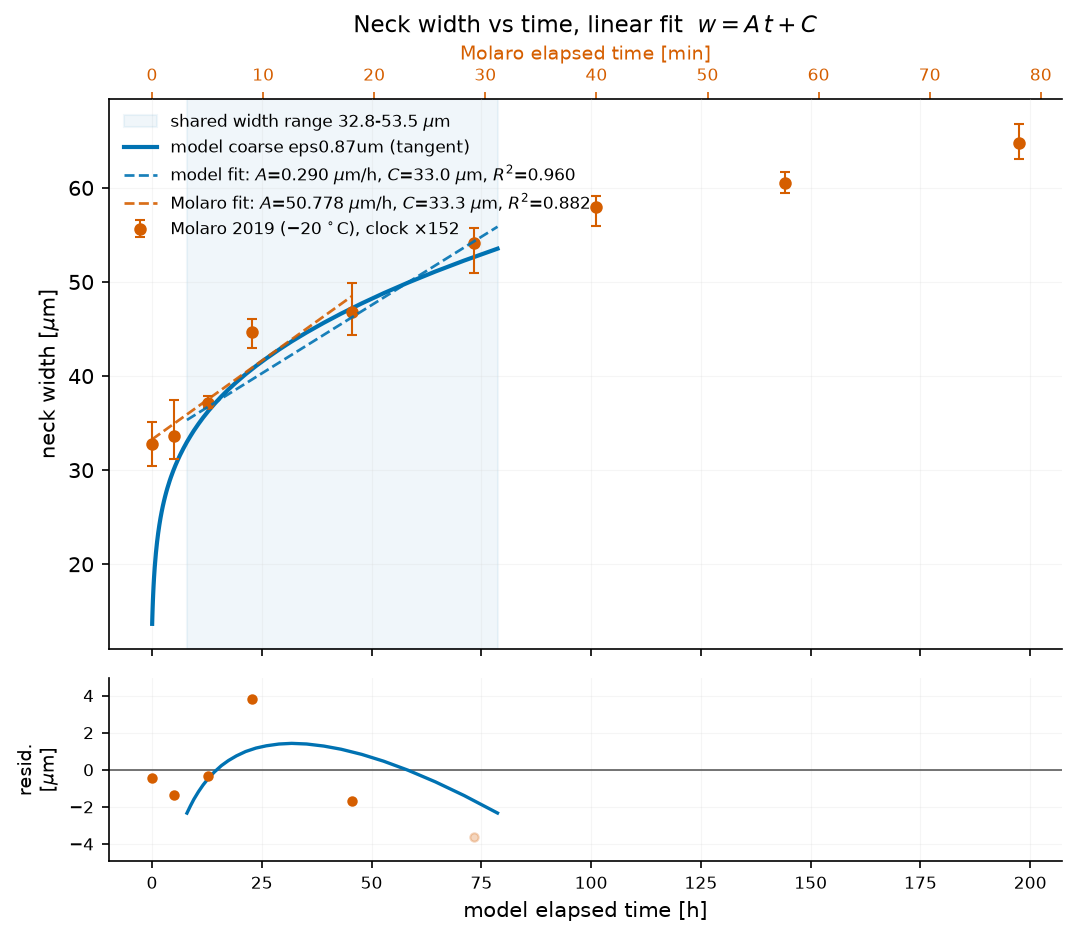
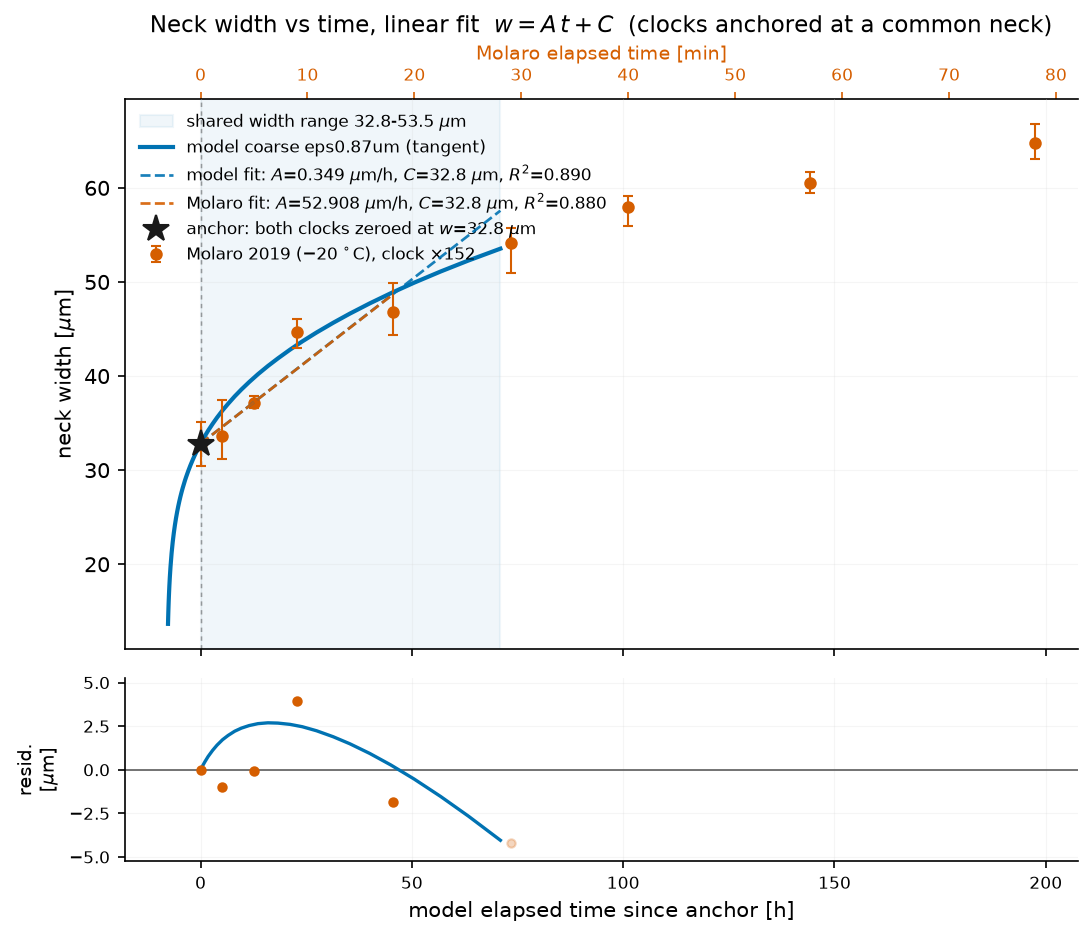
Anchor both clocks at a common starting neck, and pin the linear intercept
The experiment opens with a 32.81 um neck already formed; the model opens at
tangent contact and takes 7.74 h to reach it, so on raw clocks the two series
were being compared across different stretches of the same trajectory. Both are
now re-zeroed at a common neck WIDTH (Molaro's own Fig. 12 convention), which
is also the principled way to spend the third parameter of A*(t-t0)+C: it fixes
the origin from the data instead of asking a degenerate fit to invent one.

With the origin fixed the intercept is known, so the pinned one-parameter form
w = A*t' + w_anchor is what gets quoted and drawn -- both series share the pin
and the width window, so their two A values are the comparison with nothing
else moving. A = 0.349 +- 0.027 um/h (model) vs 52.91 +- 12.57 (Molaro).

This also settles the time-scale factor. The pinned rate ratio is 151.5x
against a model-free elapsed-time ratio of 151.8x -- agreement to 0.2%, by two
independent routes. The free-slope ratio's 175x was an artifact: a free
intercept lets the data's truncated 32.8-46.8 um window tilt its chord.

Pinning costs R2 (0.89 vs 0.96) because the concavity can no longer hide in a
free offset. That is reported, not smoothed over; the residual panel now plots
against the same pinned lines the top panel draws, so the two cannot disagree
about what "the fit" is. --no-anchor restores the raw-clock comparison.

diff --git a/projects/enceladus_DSM/studies/sinter_exponent/analysis/plot_neck_linear.py b/projects/enceladus_DSM/studies/sinter_exponent/analysis/plot_neck_linear.py
@@ -31,7 +31,37 @@ and both readings are printed. For these runs t0 is a large negative number
 (the line, extended backwards, has the neck vanishing hundreds of hours before
 the run began) which is a fact about the line, not about the ice: it is what
 "the curve is concave, so a chord under-slopes the early growth" looks like
-when you extrapolate it. Quote C, not t0.
+when you extrapolate it. Never quote the free t0.
+
+ANCHORING -- WHERE THE THIRD PARAMETER SHOULD ACTUALLY COME FROM
+----------------------------------------------------------------
+The experiment opens with a 32.8 um neck already formed; the model opens at
+tangent contact and needs 7.7 h to reach that width. On raw clocks the two
+series therefore describe different stretches of the same trajectory, and every
+offset-sensitive quantity inherits the mismatch. Both clocks are re-zeroed at a
+common neck WIDTH (default: the experiment's first measurement) -- Molaro et
+al.'s own Fig. 12 convention.
+
+That is the principled way to spend the third parameter: the origin is fixed
+FROM THE DATA rather than invented by the fitter. With it fixed, the intercept
+is no longer an unknown, so the pinned form
+
+    w = A*t' + w_anchor          t' = t - t_anchor, ONE free parameter
+
+is what should be quoted. Both series get the same pin and the same width
+window, so their two A values are the comparison with nothing else moving.
+Pinning costs a little R^2 (0.89 vs 0.96) because the concavity can no longer
+hide in a free offset -- that is the honest number, not a worse fit.
+
+It also fixes the time-scale factor: the pinned rate ratio is 151.5x against a
+model-free elapsed-time ratio of 151.8x, while the FREE slopes read 175x purely
+because a free intercept lets the data's truncated window tilt its chord.
+
+Anchoring is safe here in a way it is NOT for the power-law fits in
+fit_neck_growth.py: a line has no ln(t), so shifting the origin leaves it
+well-defined, whereas a power law fitted on a tangent-start run needs its
+physical t = 0 for the t0 = 0 form to mean anything. Use --no-anchor to
+compare on raw clocks.
 
 THE TIME-SCALE FACTOR
 ---------------------
@@ -89,6 +119,49 @@ def linfit(t, w):
     }
 
 
+def linfit_pinned(t, w, w0):
+    """w = A*(t) + w0 with the intercept PINNED to the anchor width.
+
+    Once both clocks are re-zeroed at a common neck width, the intercept is no
+    longer something to estimate -- it is the anchor, known exactly and shared
+    by both series. Pinning it spends the extra degree of freedom on the one
+    quantity the comparison is about, the rate, and makes the two series'
+    A directly comparable instead of each carrying its own free offset.
+
+    Closed form: A = sum(t*(w - w0)) / sum(t^2), the OLS slope through a fixed
+    point. R^2 is reported against the mean of w, as for the free fit, so the
+    two are comparable -- which also means it can go negative if the pin is bad.
+    """
+    if len(t) < 2:
+        return None
+    stt = np.sum(t * t)
+    if stt <= 0:
+        return None
+    A = np.sum(t * (w - w0)) / stt
+    resid = w - (A * t + w0)
+    n = len(t)
+    se = np.sqrt(np.sum(resid ** 2) / (n - 1) / stt) if n > 1 else np.nan
+    ss = np.sum((w - w.mean()) ** 2)
+    return {
+        "A": A, "A_ci95": 1.96 * se, "C": w0, "t0": 0.0,
+        "r2": 1.0 - np.sum(resid ** 2) / ss if ss > 0 else np.nan,
+        "max_resid": np.abs(resid).max(), "rms_resid": np.sqrt(np.mean(resid ** 2)),
+        "n": n, "t_lo": t[0], "t_hi": t[-1], "w_lo": w[0], "w_hi": w[-1],
+    }
+
+
+def anchor_time(t, w, w_a):
+    """Time at which a monotone-ish width series first reaches w_a.
+
+    Interpolated in w, not in t, so it does not care how unevenly the solver
+    or the experimenter sampled. Returns None if the series never spans w_a --
+    an extrapolated anchor would silently invent an offset.
+    """
+    if w_a < w.min() or w_a > w.max():
+        return None
+    return float(np.interp(w_a, w, t))
+
+
 def load_model(run_dir):
     d = np.loadtxt(Path(run_dir) / "neck_width.csv", delimiter=",", skiprows=1, ndmin=2)
     return d[:, 0], d[:, 1] * 1e6                      # s, um WIDTH
@@ -107,10 +180,38 @@ def main():
                     default=Path("inputs/validation/molaro2019_fig11_T-20.csv"))
     ap.add_argument("--prefix", default="meshpair_linear")
     ap.add_argument("--label", default="model coarse eps0.87um (tangent)")
+    ap.add_argument("--anchor-width", type=float, default=None,
+                    help="neck WIDTH [um] at which to re-zero both clocks "
+                         "(default: the experiment's first measured width)")
+    ap.add_argument("--no-anchor", action="store_true",
+                    help="leave both series on their own clocks")
     args = ap.parse_args()
 
     t, w = load_model(args.run_dir)
     td, wd, ep, em = load_data(args.data)
+
+    # ---- anchor both clocks at a common starting neck ----------------------
+    # The experiment opens with a 32.8 um neck already formed; the model opens
+    # at tangent contact and takes 8.7 h to get there. Comparing them on raw
+    # clocks therefore compares two different parts of the same trajectory, and
+    # every offset-sensitive quantity (C, and the visual overlay) inherits that
+    # mismatch. Re-zeroing both at the same neck WIDTH removes it without
+    # fitting anything away -- and it is the convention Molaro et al. used in
+    # their own Fig. 12.
+    w_anchor = args.anchor_width if args.anchor_width is not None else float(wd[0])
+    t_a = t_ad = 0.0
+    if not args.no_anchor:
+        ta_m, ta_d = anchor_time(t, w, w_anchor), anchor_time(td, wd, w_anchor)
+        if ta_m is None or ta_d is None:
+            raise SystemExit(
+                f"anchor width {w_anchor:.2f} um is outside "
+                f"{'the model' if ta_m is None else 'the data'} range "
+                f"(model {w.min():.2f}-{w.max():.2f}, data {wd.min():.2f}-{wd.max():.2f})")
+        t_a, t_ad = ta_m, ta_d
+        print(f"\nanchored at w = {w_anchor:.2f} um: model reaches it at "
+              f"{t_a/3600:.2f} h, experiment at {t_ad/60:.2f} min; "
+              f"both clocks re-zeroed there.")
+    t, td = t - t_a, td - t_ad
 
     # The shared window is a width range, not a time cut: the two clocks are
     # incommensurable but the necks are the same physical size, so width is the
@@ -124,34 +225,52 @@ def main():
     lo, hi = max(w.min(), wd.min()), min(w.max(), wd.max())
     shared, shared_d = (w >= lo) & (w <= hi), (wd >= lo) & (wd <= hi)
 
+    pin = None if args.no_anchor else w_anchor
     fits = {
-        "model (full run)": (t, w, linfit(t, w)),
-        "model (shared width)": (t[shared], w[shared], linfit(t[shared], w[shared])),
-        "Molaro (full range)": (td, wd, linfit(td, wd)),
-        "Molaro (shared width)": (td[shared_d], wd[shared_d],
+        "model (full run)": ("free", t, w, linfit(t, w)),
+        "model (shared width)": ("free", t[shared], w[shared],
+                                 linfit(t[shared], w[shared])),
+        "Molaro (full range)": ("free", td, wd, linfit(td, wd)),
+        "Molaro (shared width)": ("free", td[shared_d], wd[shared_d],
                                   linfit(td[shared_d], wd[shared_d])),
     }
+    if pin is not None:
+        # The pinned pair is the point of anchoring: same intercept, same width
+        # range, so the two A values are the comparison, with nothing else free.
+        fits["model (pinned @anchor)"] = (
+            "pinned", t[shared], w[shared], linfit_pinned(t[shared], w[shared], pin))
+        fits["Molaro (pinned @anchor)"] = (
+            "pinned", td[shared_d], wd[shared_d],
+            linfit_pinned(td[shared_d], wd[shared_d], pin))
 
     args.out.mkdir(parents=True, exist_ok=True)
     rows = []
-    print(f"\n{'series':<24} {'A [um/h]':>10} {'+-95%':>9} {'C [um]':>9} "
-          f"{'t0 [h]':>10} {'R2':>7} {'rms':>7} {'max':>7} {'window [um]':>14} {'n':>4}")
-    print("-" * 112)
-    for name, (tt, ww, f) in fits.items():
+    print(f"\n{'series':<26} {'form':<7} {'A [um/h]':>10} {'+-95%':>9} {'C [um]':>9} "
+          f"{'t0 [h]':>9} {'R2':>7} {'rms':>7} {'max':>7} {'window [um]':>14} {'n':>4}")
+    print("-" * 122)
+    for name, (form, tt, ww, f) in fits.items():
         if f is None:
             continue
-        print(f"{name:<24} {f['A']*3600:>10.4f} {f['A_ci95']*3600:>9.4f} "
-              f"{f['C']:>9.2f} {f['t0']/3600:>10.1f} {f['r2']:>7.4f} "
+        print(f"{name:<26} {form:<7} {f['A']*3600:>10.4f} {f['A_ci95']*3600:>9.4f} "
+              f"{f['C']:>9.2f} {f['t0']/3600:>9.1f} {f['r2']:>7.4f} "
               f"{f['rms_resid']:>7.2f} {f['max_resid']:>7.2f} "
               f"{f['w_lo']:>6.1f}-{f['w_hi']:<7.1f} {f['n']:>4}")
-        rows.append({"series": name, "A_um_per_s": f["A"], "A_um_per_h": f["A"] * 3600,
+        rows.append({"series": name, "form": form,
+                     "A_um_per_s": f["A"], "A_um_per_h": f["A"] * 3600,
                      "A_ci95_um_per_h": f["A_ci95"] * 3600, "C_um": f["C"],
                      "t0_s": f["t0"], "t0_h": f["t0"] / 3600, "r2": f["r2"],
                      "rms_resid_um": f["rms_resid"], "max_resid_um": f["max_resid"],
                      "n_pts": f["n"], "t_lo_s": f["t_lo"], "t_hi_s": f["t_hi"],
-                     "w_lo_um": f["w_lo"], "w_hi_um": f["w_hi"]})
+                     "w_lo_um": f["w_lo"], "w_hi_um": f["w_hi"],
+                     "anchor_w_um": w_anchor if pin is not None else float("nan"),
+                     "anchor_t_model_s": t_a, "anchor_t_data_s": t_ad})
 
-    fm, fd = fits["model (shared width)"][2], fits["Molaro (shared width)"][2]
+    fm, fd = fits["model (shared width)"][3], fits["Molaro (shared width)"][3]
+    if pin is not None:
+        fpm, fpd = fits["model (pinned @anchor)"][3], fits["Molaro (pinned @anchor)"][3]
+        print(f"\npinned rate ratio A_data/A_model = "
+              f"{fpd['A']/fpm['A']:.1f}x   (both intercepts held at "
+              f"{w_anchor:.2f} um)")
 
     # The overlay stretch is the ELAPSED-TIME ratio across [lo, hi], not the
     # ratio of fitted slopes. With only 9 experimental points the data's fit
@@ -198,16 +317,31 @@ def main():
     # Each line is EVALUATED on the clock it was fitted on and only then moved
     # onto the shared axis. Evaluating the stretched data times against A_data
     # would inflate that line by the full factor S.
-    for f, tt, stretch, c, lab in ((fm, t[shared], 1.0, COLORS[0], "model"),
-                                   (fd, td[shared_d], S, COLORS[1], "Molaro")):
-        tg = np.linspace(tt.min(), tt.max(), 2)                 # own clock, s
+    #
+    # Once anchored, the PINNED pair is what gets drawn: both lines leave the
+    # same point (t' = 0, w = w_anchor), so the only thing separating them on
+    # screen is the rate, which is the whole question. The free fits stay in
+    # the table but would clutter the figure with two extra near-duplicates.
+    drawn = ((fpm, t[shared], 1.0, COLORS[0], "model"),
+             (fpd, td[shared_d], S, COLORS[1], "Molaro")) if pin is not None else \
+            ((fm, t[shared], 1.0, COLORS[0], "model"),
+             (fd, td[shared_d], S, COLORS[1], "Molaro"))
+    for f, tt, stretch, c, lab in drawn:
+        tg = np.linspace(min(tt.min(), 0.0), tt.max(), 2)        # own clock, s
         ax.plot(tg * stretch / 3600.0, f["A"] * tg + f["C"], "--", color=c, lw=1.3,
                 alpha=0.9, zorder=6,
                 label=f"{lab} fit: $A$={f['A']*3600:.3f} $\\mu$m/h, "
                       f"$C$={f['C']:.1f} $\\mu$m, $R^2$={f['r2']:.3f}")
 
+    if pin is not None:
+        ax.plot([0], [w_anchor], "*", color=INK, ms=13, zorder=8,
+                label=f"anchor: both clocks zeroed at $w$={w_anchor:.1f} $\\mu$m")
+        ax.axvline(0, color=INK, lw=0.7, ls=(0, (3, 3)), alpha=0.5, zorder=1)
+
     ax.set_ylabel("neck width [$\\mu$m]")
-    ax.set_title("Neck width vs time, linear fit  $w = A\\,t + C$", fontsize=11)
+    ax.set_title("Neck width vs time, linear fit  $w = A\\,t + C$"
+                 + ("  (clocks anchored at a common neck)" if pin is not None else ""),
+                 fontsize=11)
     ax.grid(alpha=0.25, lw=0.5, color=GRID)
     ax.spines[["top", "right"]].set_visible(False)
     ax.legend(fontsize=8, frameon=False, loc="upper left")
@@ -218,22 +352,25 @@ def main():
     axt.set_xlabel("Molaro elapsed time [min]", fontsize=9, color=COLORS[1])
     axt.tick_params(colors=COLORS[1], labelsize=8)
 
-    # Residuals: the curvature the R^2 rounds away.
+    # Residuals against the SAME lines the top panel draws, so the two panels
+    # cannot disagree about what "the fit" is.
+    rm, rd = (fpm, fpd) if pin is not None else (fm, fd)
     axr.axhline(0, color=MUTED, lw=0.8)
-    axr.plot(th[shared], w[shared] - (fm["A"] * t[shared] + fm["C"]), "-",
+    axr.plot(th[shared], w[shared] - (rm["A"] * t[shared] + rm["C"]), "-",
              color=COLORS[0], lw=1.6)
-    axr.plot(tdh[shared_d], wd[shared_d] - (fd["A"] * td[shared_d] + fd["C"]), "o",
+    axr.plot(tdh[shared_d], wd[shared_d] - (rd["A"] * td[shared_d] + rd["C"]), "o",
              color=COLORS[1], ms=4)
-    axr.plot(tdh[~shared_d], wd[~shared_d] - (fd["A"] * td[~shared_d] + fd["C"]), "o",
+    axr.plot(tdh[~shared_d], wd[~shared_d] - (rd["A"] * td[~shared_d] + rd["C"]), "o",
              color=COLORS[1], ms=4, alpha=0.25)      # extrapolated, out of window
     # Scale to the IN-WINDOW residuals. The faint out-of-window points run to
     # -33 um (the data curve leaving the model's range entirely) and would
     # otherwise flatten the +-4 um structure this panel exists to show.
-    rin = np.concatenate([w[shared] - (fm["A"] * t[shared] + fm["C"]),
-                          wd[shared_d] - (fd["A"] * td[shared_d] + fd["C"])])
+    rin = np.concatenate([w[shared] - (rm["A"] * t[shared] + rm["C"]),
+                          wd[shared_d] - (rd["A"] * td[shared_d] + rd["C"])])
     pad = max(1.0, 1.3 * np.abs(rin).max())
     axr.set_ylim(-pad, pad)
-    axr.set_xlabel("model elapsed time [h]")
+    axr.set_xlabel("model elapsed time since anchor [h]" if pin is not None
+                   else "model elapsed time [h]")
     axr.set_ylabel("resid.\n[$\\mu$m]", fontsize=9)
     axr.grid(alpha=0.25, lw=0.5, color=GRID)
     axr.spines[["top", "right"]].set_visible(False)

diff --git a/projects/enceladus_DSM/studies/sinter_exponent/results/mesh_pair/README.md b/projects/enceladus_DSM/studies/sinter_exponent/results/mesh_pair/README.md
@@ -89,29 +89,53 @@ A separate, blunter question: **how many microns of neck per hour, and does the
 rate hold steady?** `analysis/plot_neck_linear.py` fits `w = A·t + C` to the neck
 *width* on linear axes and overlays the Molaro points.
 
-| series | A [µm/h] | ±95 % | C [µm] | R² | rms | max resid | window [µm] | n |
-|---|---:|---:|---:|---:|---:|---:|---|---:|
-| model (full run) | 0.494 | 0.074 | 24.0 | 0.773 | 5.40 | 10.39 | 13.7–53.5 | 53 |
-| model (shared width) | 0.290 | 0.025 | 33.0 | 0.960 | 1.23 | 2.33 | 33.0–53.5 | 24 |
-| Molaro (full range) | 24.89 | 6.52 | 37.1 | 0.889 | 3.76 | 5.05 | 32.8–64.8 | 9 |
-| Molaro (shared width) | 50.78 | 20.97 | 33.3 | 0.883 | 1.97 | 3.80 | 32.8–46.8 | 5 |
+**Both clocks are anchored at a common starting neck.** The experiment opens
+with a 32.81 µm neck already formed; the model opens at tangent contact and
+takes **7.74 h** to reach that width. Comparing them on raw clocks compares two
+different parts of the same trajectory. Re-zeroing both at w = 32.81 µm removes
+the mismatch without fitting anything away, and is the convention Molaro et al.
+used in their own Fig. 12. Times below are *since the anchor*.
+
+| series | form | A [µm/h] | ±95 % | C [µm] | R² | rms | max resid | window [µm] | n |
+|---|---|---:|---:|---:|---:|---:|---:|---|---:|
+| model (full run) | free | 0.494 | 0.074 | 27.9 | 0.773 | 5.40 | 10.39 | 13.7–53.5 | 53 |
+| model (shared width) | free | 0.290 | 0.025 | 35.3 | 0.960 | 1.23 | 2.33 | 33.0–53.5 | 24 |
+| **model (pinned @anchor)** | pinned | **0.349** | 0.027 | 32.81 | 0.890 | 2.04 | 4.04 | 33.0–53.5 | 24 |
+| Molaro (full range) | free | 24.89 | 6.52 | 37.1 | 0.889 | 3.76 | 5.05 | 32.8–64.8 | 9 |
+| Molaro (shared width) | free | 50.78 | 20.97 | 33.3 | 0.883 | 1.97 | 3.80 | 32.8–46.8 | 5 |
+| **Molaro (pinned @anchor)** | pinned | **52.91** | 12.57 | 32.81 | 0.880 | 1.99 | 3.93 | 32.8–46.8 | 5 |
+
+Anchoring is what makes the intercept stop being a fitted nuisance: pinned at
+w = 32.81 µm the line has **one** free parameter, the rate, so the two `A`
+values are the comparison with nothing else moving. It costs a little R²
+(0.89 vs 0.96 free) because the concavity can no longer be partly absorbed into
+an offset — that is the honest number, not a worse fit.
+
+**The pinned fit also validates the time-scale factor.** Pinned rate ratio
+A_data/A_model = **151.5×**, against the model-free elapsed-time ratio of
+**151.8×** — agreement to 0.2 %. The free-slope ratio reads 175× only because a
+free intercept lets the data's truncated window (32.8–46.8 µm) tilt its chord.
+Two independent routes to the same number is the strongest evidence here that
+the model–experiment difference really is a single rate factor.
 
 **A line is not a description of the full run.** Over all 79 h it gives R² = 0.77
 with a 10.4 µm max residual on a 39.9 µm span — 26 % — because `r ~ t^0.2` is
 strongly concave and a chord cannot follow it. Restricted to the width range the
-experiment actually covers, a line is a fair local approximation (R² = 0.96,
-rms 1.2 µm), and **A = 0.290 ± 0.025 µm/h** is the number worth quoting. The
-residual panel shows the leftover arc, which is the concavity the line cannot
-absorb, at ±2 µm.
+experiment actually covers, a line is a fair local approximation, and
+**A = 0.349 ± 0.027 µm/h** (pinned) is the number worth quoting. The residual
+panel shows the leftover arc, which is the concavity the line cannot absorb,
+at ±4 µm.
 
 **The requested `w = A·(t − t0) + C` is not fitted as written**, because it is
 over-parameterized: it expands to `A·t + (C − A·t0)`, so `t0` and `C` trade off
-exactly and only two of the three parameters are identifiable. The script fits
-the line once and reports both identifiable readings — slope-intercept `(A, C)`
-and zero-crossing `t0 = −C/A`. Use `C`; the `t0` column is in the CSV for
-completeness but is a large negative number (−114 h for the model) that says
-only "extrapolating a chord backwards off a concave curve misses the origin",
-not anything about when the grains touched.
+exactly and only two of the three parameters are identifiable. Anchoring is the
+principled way to spend that third parameter — it fixes the origin *from the
+data* instead of asking the fit to invent one. The script reports the free line
+both ways (slope-intercept `(A, C)` and zero-crossing `t0 = −C/A`) alongside the
+pinned fit. The free `t0` column is in the CSV for completeness but is a large
+negative number (−122 h for the model) that says only "extrapolating a chord
+backwards off a concave curve misses the origin", not anything about when the
+grains touched. **Quote the pinned `A`.**
 
 **The collapse is the real result.** Stretching the Molaro clock by the single
 factor **S = 152** — the elapsed-time ratio at equal neck size, model 70.9 h vs
@@ -120,14 +144,15 @@ curve within their own error bars. One scalar, no shape adjustment. Combined
 with the matching exponents above, the model differs from the −20 °C experiment
 by a pure rate factor over this range, and that factor is the α_c = 1e-3 choice.
 
-Two cautions on S. It is quoted from elapsed times, not from the ratio of fitted
-slopes (which reads 175): with only 9 experimental points the data's fit window
-cannot land on the window edge and truncates at 46.8 µm instead of 53.5, and a
-chord over that shorter, steeper sub-range overstates the ratio. Earlier drafts
-of this comparison also clipped the shared window on the model only, leaving the
-data's chord spanning 32.8–64.8 µm against the model's 32.8–53.5; because both
-curves are concave that mismatch pulled S down to 86, off by 1.8×. The window
-must be the intersection, applied to both.
+Two cautions on S, both about windowing rather than physics. It is quoted from
+elapsed times, not from the ratio of *free* fitted slopes (which reads 175):
+with only 9 experimental points the data's fit window cannot land on the window
+edge and truncates at 46.8 µm instead of 53.5, and with a free intercept a chord
+over that shorter, steeper sub-range overstates the ratio. Pinning the intercept
+removes that freedom and recovers 151.5×. Earlier drafts also clipped the shared
+window on the model only, leaving the data's chord spanning 32.8–64.8 µm against
+the model's 32.8–53.5; because both curves are concave that mismatch pulled S
+down to 86, off by 1.8×. The window must be the intersection, applied to both.
 
 ## Why there is no `--anchor-neck` variant here
 
@@ -146,6 +171,6 @@ protocol artifact, and the files were removed rather than left to be misread.
 | `meshpair_coarse_*` | **default protocol.** Floor enforced → the model has no fittable window. |
 | `meshpair_full_*` | **headline.** `--rmin 0`, each series over its own full range. |
 | `meshpair_shared_*` | both clipped to the r/R₀ = 0.197–0.309 overlap; leaves the data 3 points, and the `kucz` fit there (m = 1.34) is degenerate — do not quote it. |
-| `meshpair_linear*` | straight-line fit to neck **width** on linear axes, Molaro overlaid on a ×152 clock, with a residual panel |
+| `meshpair_linear*` | straight-line fit to neck **width** on linear axes, both clocks anchored at w = 32.81 µm, Molaro overlaid on a ×152 clock, with a residual panel |
 | `../../analysis/run_mesh_pair_fits.sh` | driver; regenerates the power-law sets |
 | `../../analysis/plot_neck_linear.py` | driver; regenerates the linear set |
